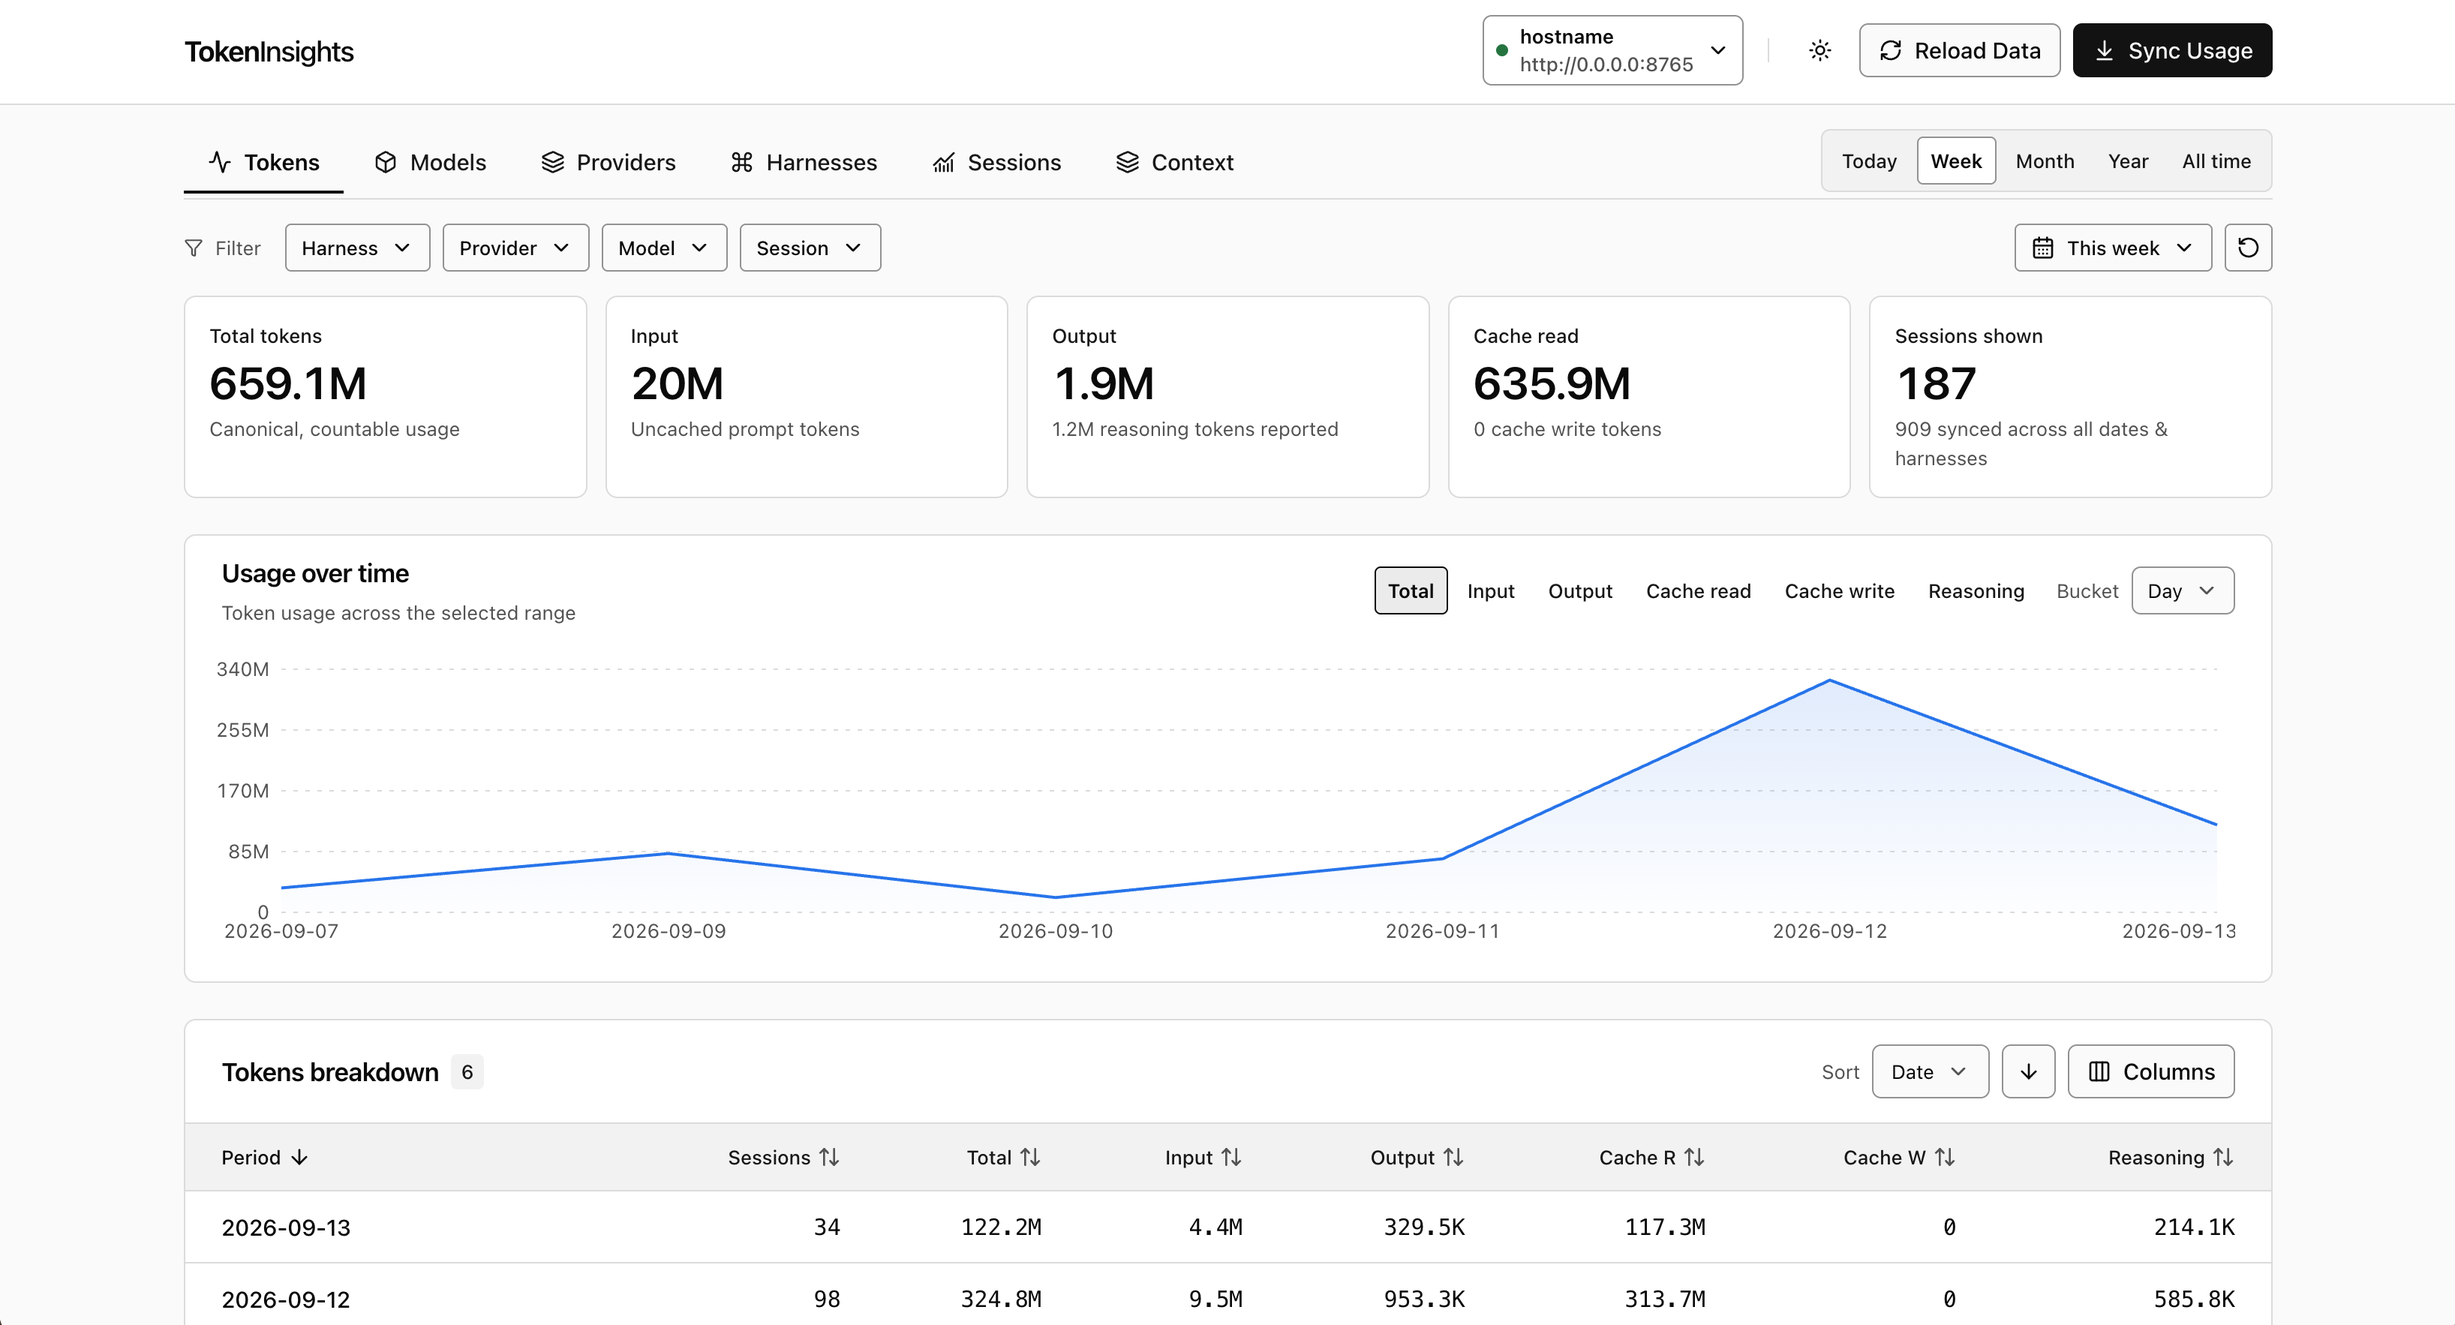
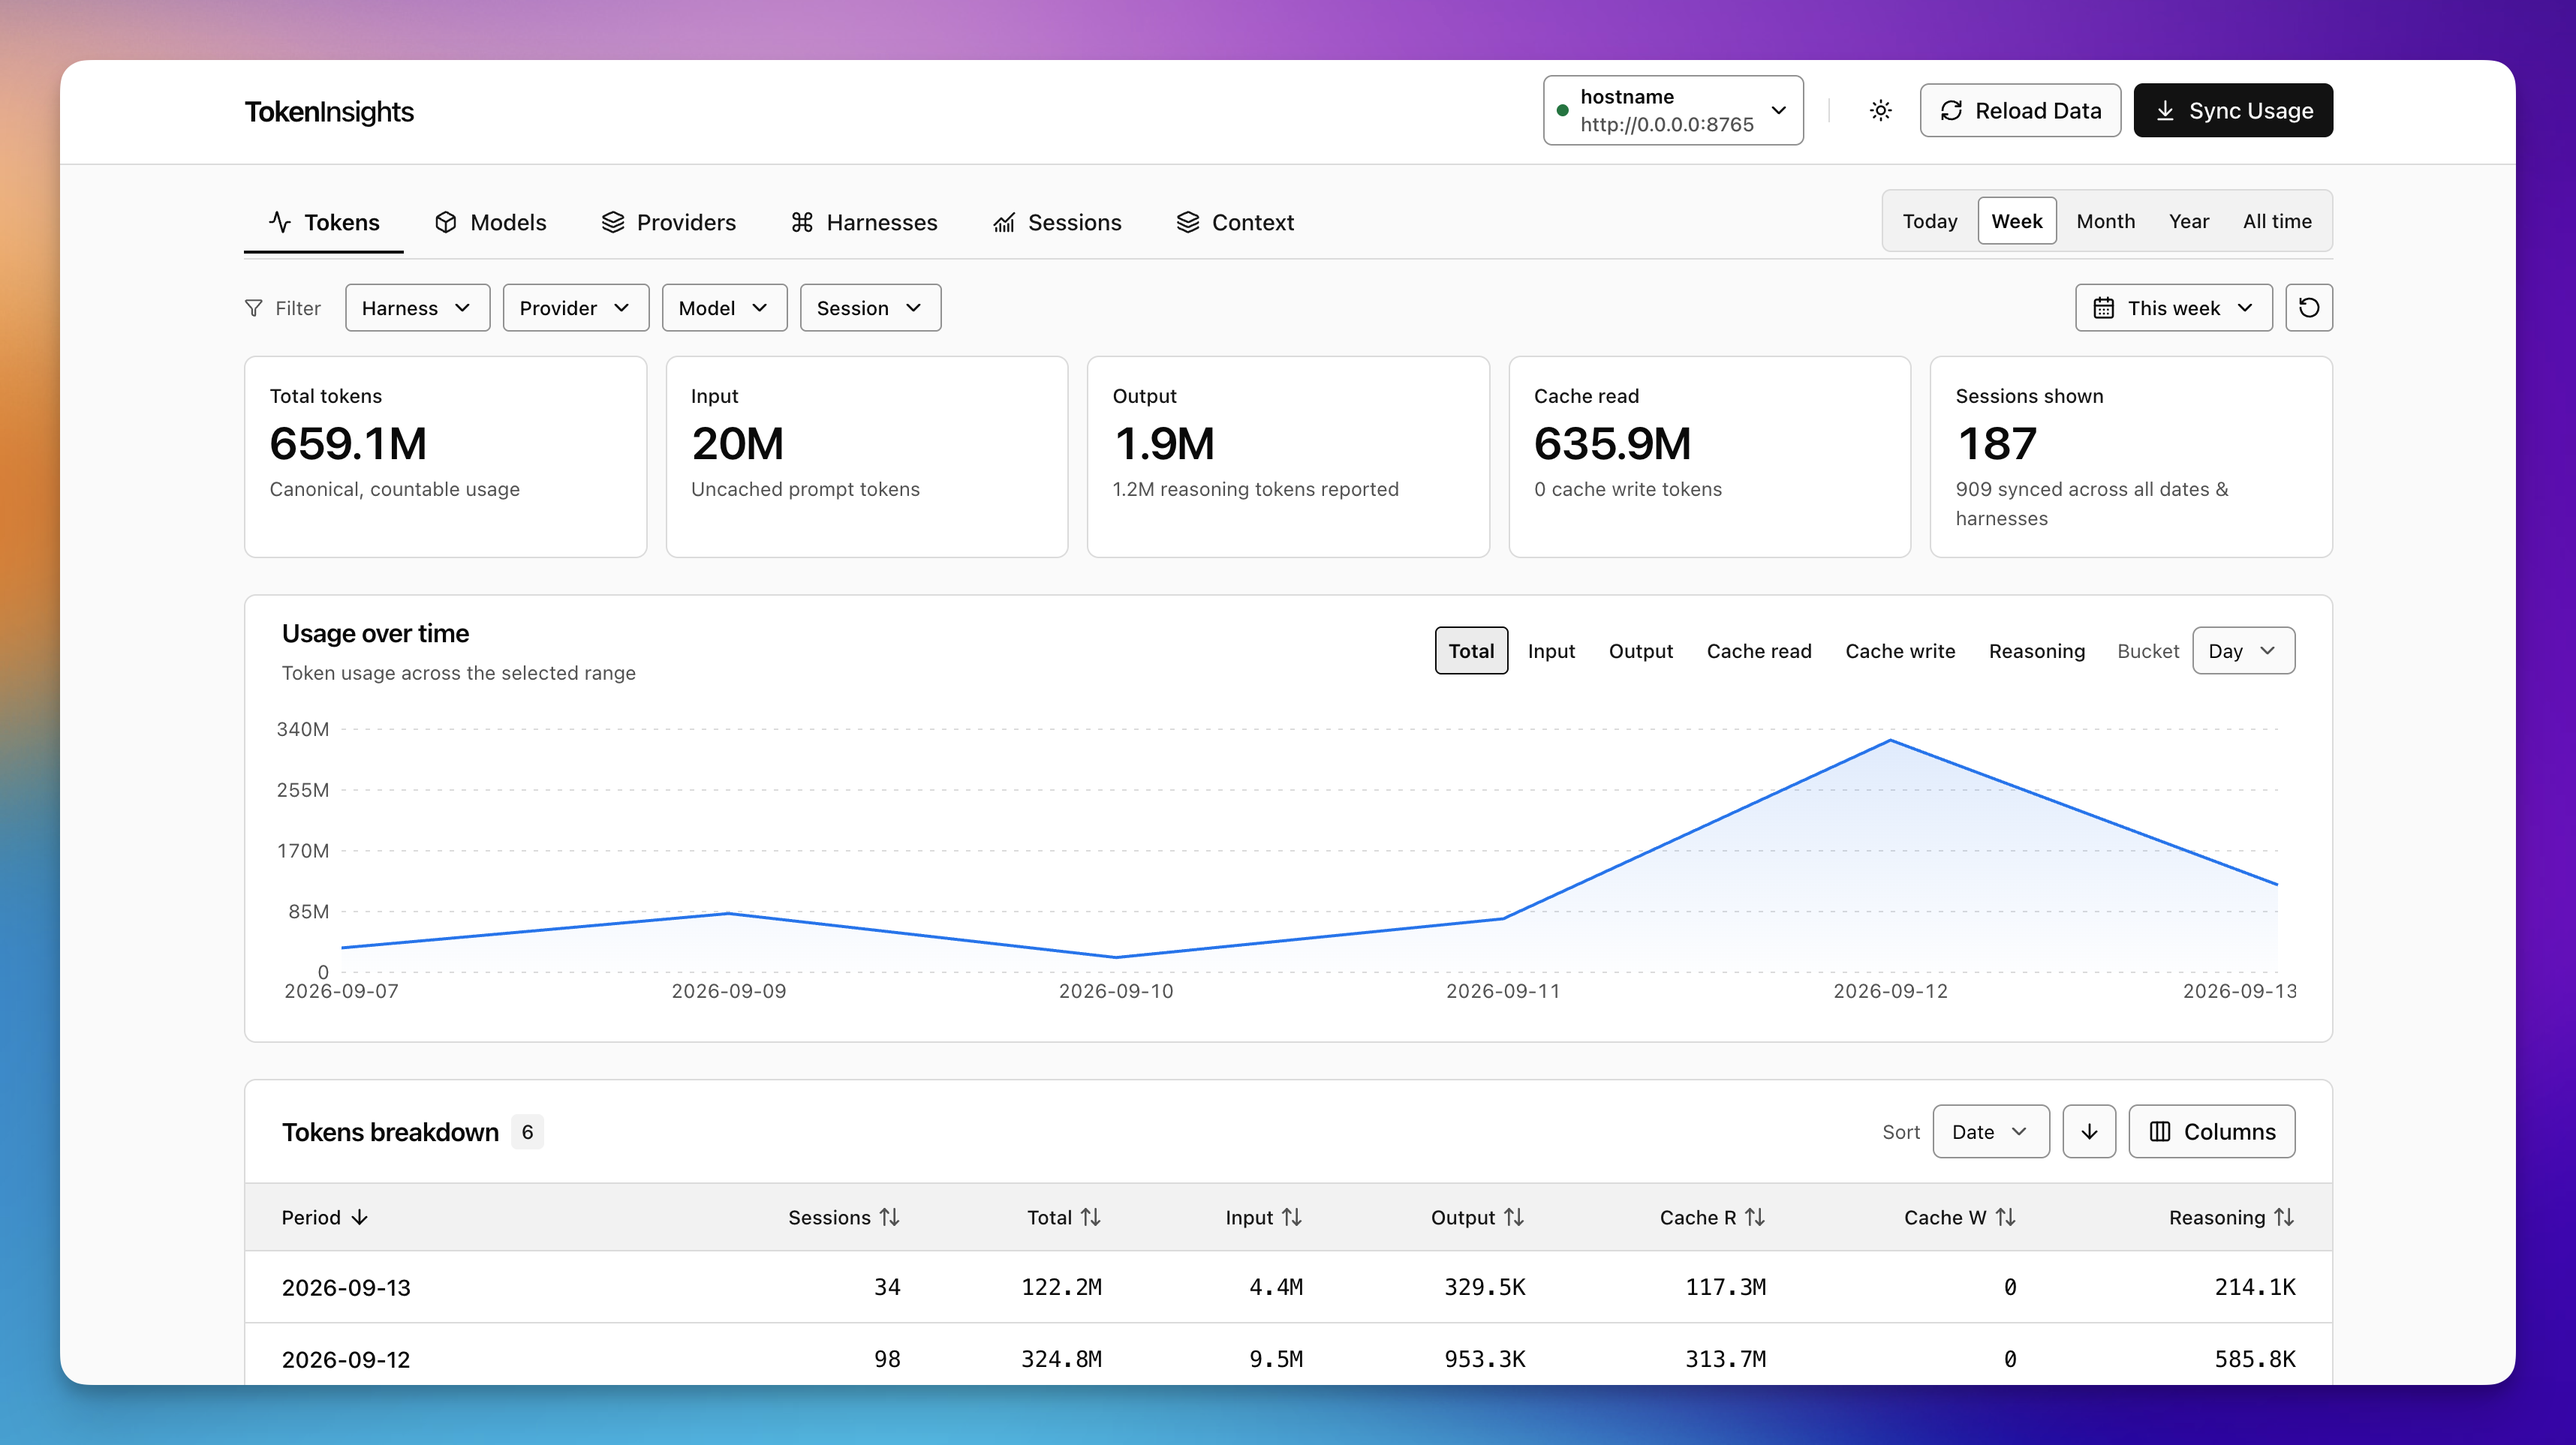
update readme and image

diff --git a/README.md b/README.md
@@ -2,9 +2,9 @@
 
 TokenInsights is a local token usage dashboard for OpenCode, Pi, Codex, and Claude Code. It parses local session files, stores usage metadata in SQLite, and presents it in a terminal or browser dashboard. Both dashboards refresh supported local sources on startup.
 
-| Terminal UI                                                               | Web UI                                                                               |
-| ------------------------------------------------------------------------- | ------------------------------------------------------------------------------------ |
-| ![TokenInsights terminal dashboard](assets/tokeninsights-view-models.png) | ![TokenInsights browser dashboard in light mode](assets/tokeninsights-web-light.png) |
+| Web                                                                                  | TUI                                                                       |
+| ------------------------------------------------------------------------------------ | ------------------------------------------------------------------------- |
+| ![TokenInsights browser dashboard in light mode](assets/tokeninsights-web-light.png) | ![TokenInsights terminal dashboard](assets/tokeninsights-view-models.png) |
 
 ## Install
 
